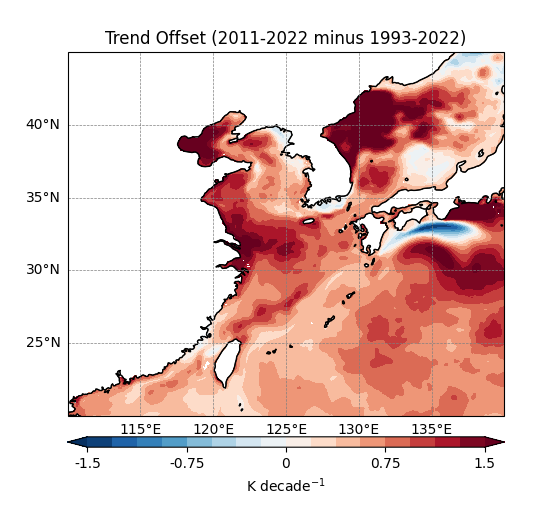
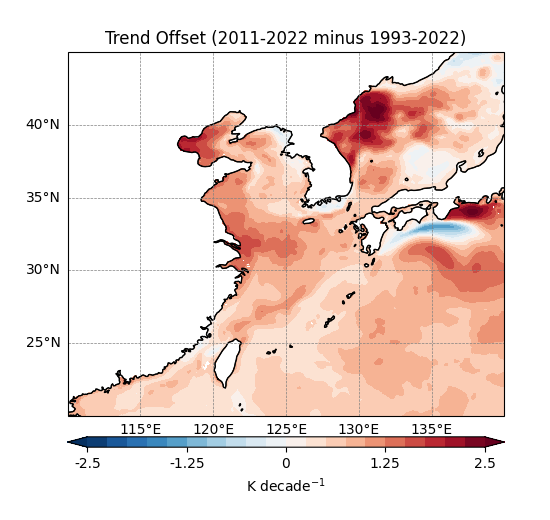
main에 커밋

diff --git a/src/analysis/source_panel.py b/src/analysis/source_panel.py
@@ -273,7 +273,8 @@ def _compute_rhs_anomalies(
     RHSmm = np.nanmean(RHSm, axis=1)
     RHSa = RHSm - RHSmm[:, None, :, :]
     rhs_anom = np.nanmean(RHSa[:, ti : tl + 1, :, :], axis=1)
-    rhs_anom *= SECONDS_PER_DAY * DAYS_PER_YEAR
+    # Convert K s^-1 to K decade^-1
+    rhs_anom *= SECONDS_PER_DAY * DAYS_PER_YEAR * 10.0
     return rhs_anom
 
 
@@ -287,6 +288,7 @@ def compute_budget_fields(base_dir: Path) -> BudgetFields:
     T = read_fbinary(data_dir / "T_ML.data", shape)
     qnet = read_fbinary(data_dir / "qnet.data", shape)
     adv = read_fbinary(data_dir / "adv.data", shape)
+    adv = smth9(adv, 0.50, 0.25, wrap=True)
     adv = smth9(adv, 0.50, 0.25, wrap=True)
     adv = smth9(adv, 0.50, 0.25, wrap=True)
 
@@ -391,7 +393,7 @@ def plot_trend_map(fields: BudgetFields, output: Path) -> None:
 
     lon2d, lat2d = np.meshgrid(fields.lon, fields.lat)
     cmap = plt.get_cmap("RdBu_r")
-    levels_trend = np.linspace(-1.5, 1.5, 17)
+    levels_trend = np.linspace(-2.5, 2.5, 21)
 
     cs = ax.contourf(
         lon2d,
@@ -416,7 +418,11 @@ def plot_trend_map(fields: BudgetFields, output: Path) -> None:
     plt.close(fig)
 
 
-def plot_rhs_panels(fields: BudgetFields, output: Path) -> None:
+def plot_rhs_panels(
+    fields: BudgetFields,
+    rhs_anomalies: np.ndarray,
+    output: Path,
+) -> None:
     output.parent.mkdir(parents=True, exist_ok=True)
 
     subplot_kwargs = {"projection": ccrs.PlateCarree()} if ccrs is not None else {}
@@ -460,7 +466,8 @@ def plot_rhs_panels(fields: BudgetFields, output: Path) -> None:
 
     lon2d, lat2d = np.meshgrid(fields.lon, fields.lat)
     cmap = plt.get_cmap("RdBu_r")
-    levels_rhs = np.linspace(-10.0, 10.0, 17)
+    # RHS anomalies are in K decade^-1; empirical scale ~O(100) after conversion
+    levels_rhs = np.linspace(-100.0, 100.0, 17)
 
     titles = [
         "Surface Heat Flux (Qnet)",
@@ -474,12 +481,16 @@ def plot_rhs_panels(fields: BudgetFields, output: Path) -> None:
     axes = axes.ravel()
     mappables: list[plt.cm.ScalarMappable] = []
 
-    for idx, (ax, arr, title) in enumerate(zip(axes, fields.rhs_anomalies, titles)):
+    for idx, (ax, arr, title) in enumerate(zip(axes, rhs_anomalies, titles)):
         row, col = divmod(idx, 2)
+        data = np.array(arr, copy=True)
+        if idx == 1:
+            mask = np.isclose(data, 0.0, atol=1e-8)
+            data = np.where(mask, np.nan, data)
         cs = ax.contourf(
             lon2d,
             lat2d,
-            arr,
+            data,
             levels=levels_rhs,
             cmap=cmap,
             extend="both",
@@ -497,7 +508,7 @@ def plot_rhs_panels(fields: BudgetFields, output: Path) -> None:
     cax = fig.add_axes([x0, y0, x1 - x0, 0.02])
     rhs_ticks = _select_tick_values(levels_rhs, max_labels=9)
     cbar = fig.colorbar(mappables[0], cax=cax, orientation="horizontal", ticks=rhs_ticks)
-    cbar.set_label(r"W m$^{-2}$")
+    cbar.set_label(r"K decade$^{-1}$")
     _set_colorbar_ticks(cbar, rhs_ticks)
 
     fig.savefig(output)
@@ -523,7 +534,13 @@ def parse_args(argv: Iterable[str] | None = None) -> argparse.Namespace:
         "--rhs-output",
         type=Path,
         default=None,
-        help="Destination for the RHS panel figure. Defaults to Figure/budget3_rhs_python.png.",
+        help="Destination for the RHS panel figure using native diffv. Defaults to Figure/budget3_rhs_native_python.png.",
+    )
+    parser.add_argument(
+        "--rhs-residual-output",
+        type=Path,
+        default=None,
+        help="Destination for the RHS panel figure using residual diffv. Defaults to Figure/budget3_rhs_residual_python.png.",
     )
     return parser.parse_args(argv)
 
@@ -532,11 +549,15 @@ def main(argv: Iterable[str] | None = None) -> None:
     args = parse_args(argv)
     figure_dir = args.base_dir / "Figure"
     trend_output = args.trend_output or (figure_dir / "budget3_trend_python.png")
-    rhs_output = args.rhs_output or (figure_dir / "budget3_rhs_python.png")
+    rhs_output = args.rhs_output or (figure_dir / "budget3_rhs_native_python.png")
+    rhs_residual_output = args.rhs_residual_output or (
+        figure_dir / "budget3_rhs_residual_python.png"
+    )
 
     fields = compute_budget_fields(args.base_dir)
     plot_trend_map(fields, trend_output)
-    plot_rhs_panels(fields, rhs_output)
+    plot_rhs_panels(fields, fields.rhs_anomalies_native, rhs_output)
+    plot_rhs_panels(fields, fields.rhs_anomalies_residual, rhs_residual_output)
 
 
 if __name__ == "__main__":

diff --git a/docs/guidelines/05_storage_output_guidelines.md b/docs/guidelines/05_storage_output_guidelines.md
@@ -5,10 +5,11 @@
 - 소스 코드 작성, 데이터 전처리, 그림/표 산출 등 저장 행위 전반을 포함한다.
 
 ## B. 외장 저장소 작업 규칙
-1. **소스 코드와 산출물 동시 저장**: 외장하드 경로에서 작업하는 동안 생성·수정한 파이썬 스크립트, 노트북, 모듈을 포함한 모든 소스 코드는 외장하드 내 적절한 디렉터리에 저장한다. 계산 전용 모듈은 `Decadal/source/` 등 전용 소스 디렉터리에, 그림 생성 스크립트는 결과물이 위치한 `Figure/` 하위(`Figure/scripts/` 등)에 함께 보관한다.
+1. **소스 코드와 산출물 동시 저장**: 외장하드 경로에서 작업하는 동안 생성·수정한 파이썬 스크립트, 노트북, 모듈을 포함한 모든 소스 코드는 외장하드 내 적절한 디렉터리에 저장한다. **그림을 생성하는 스크립트는 해당 그림이 저장되는 디렉터리(예: `Figure/`)와 동일 경로(또는 그 하위 `scripts/`)에 반드시 함께 둔다.** 계산 전용 모듈은 `Decadal/source/` 등 전용 소스 디렉터리에 보관한다.
 2. **결과물 현지 보관**: 분석 결과(그림, 테이블, 로그 등)도 동일 외장 경로에 보관하고, 다른 위치로 임시 복사했을 경우 즉시 외장 경로로 동기화한다. 별도 지시가 없는 한 그림 산출물은 PNG로 저장하고, 필요 시 추가 포맷(PDF 등)을 병행한다.
 3. **경로 명시**: 스크립트 내 기본 출력 경로나 `--output` 옵션 기본값을 설정할 때 외장 경로가 기본이 되도록 한다.
-4. **동기화 검증**: 외장 경로 외 다른 위치에 중간 산출물이 생성되었는지 정기적으로 확인하고, 발견 즉시 외장 경로로 이동·정리한다.
+4. **로컬 라이브러리 활용 방식**: 루트 리포(`~/Desktop/GPT/Mixed-Layer-Heat-budget`)에 있는 소스 파일은 참고용으로만 유지하고, 실제 실행·출력은 가능하면 외장하드 경로에서 수행한다. 로컬 복사본을 수정할 경우 외장 버전도 동일하게 반영했는지 확인한다.
+5. **동기화 검증**: 외장 경로 외 다른 위치에 중간 산출물이 생성되었는지 정기적으로 확인하고, 발견 즉시 외장 경로로 이동·정리한다.
 
 ## C. 소스 코드 라이브러리 구조화
 1. **루트 내 라이브러리 배치**: 새로 작성하는 모든 소스 코드는 루트(`~/Desktop/GPT/Mixed-Layer-Heat-budget`)의 `src/` 하위에 위치한 라이브러리 구조로 편입한다. 외장하드 작업 시에도 계산 로직은 `Decadal/source/` 등 전용 디렉터리에, 그림 생성 스크립트는 대응하는 `Figure/` 하위에 두어 두 위치가 역할별로 분리되도록 한다.

diff --git a/docs/guidelines/01_llm_guidelines.md b/docs/guidelines/01_llm_guidelines.md
@@ -17,7 +17,10 @@
 ## C. 진행 중 운영 규칙
 - 각 명령·실험의 목적을 먼저 말하고 실행한다. 결과 요약 시 핵심 수치와 경로만 전달한다.
 - 사용자에게 전달하는 모든 최종 응답은 기본적으로 한국어로 작성한다.
-- 진행 상황을 기록하라는 요청을 받으면 `python3 scripts/journal_end.py --notes "<요약>"`로 현재 진행을 일지에 반영한다.
+- 진행 상황을 기록하라는 요청(예: "저장해")을 받으면 아래 순서를 따른다.
+  1. 이번 대화에서 새로 드러난 비효율을 `scripts/pattern_tracker.py log`로 기록하고,
+  2. 관련 이슈가 있다면 즉시 오답노트(`scripts/log_error_note.py`)를 갱신하며,
+  3. 마지막으로 `python3 scripts/journal_end.py --notes "<요약>"`를 실행해 일지에 반영하며, 추가로 해당 노트에 이번 작업에서 다룬 주요 디렉터리·파일 경로를 명시한다.
 - 오답노트 참고·갱신 이력은 일지 `Issues & References` 섹션에 기록한다.
 - 사용자가 "대화 내용을 모두 저장해" 등 전체 기록 저장을 지시하면, 현재 채팅 세션을 즉시 `docs/discussions/` 이하에 있는 포맷(예: `transcripts/2025-09-23_session_raw.txt`) 그대로 정리해 추가한다.
 - 오답노트를 새로 작성할 때는 관련 대화 기록 경로(`docs/discussions/...`)를 `--related` 항목에 포함해 추적 가능하도록 한다.

diff --git a/docs/journal/2025/2025-09-23.md b/docs/journal/2025/2025-09-23.md
@@ -21,6 +21,8 @@
   - LLM/시각화 지침 개정 및 source_panel.py PNG 출력 구조 개선
   - journal_end.py에 --notes 옵션 추가 및 LLM 지침 업데이트 내용 저장
   - RHS 패널 레이아웃 자동 조정, 관련 지침·오답노트·패턴 기록 업데이트 완료
+  - 작업 경로 기록: src/analysis/source_panel.py, /Volumes/HJPARK4/Decadal/Figure/scripts/source_panel.py, docs/guidelines/{01_llm_guidelines.md,05_storage_output_guidelines.md}
+  - RHS residual 패널을 기본으로 사용, advection 추가 스무딩 적용 및 트렌드 범위 ±2.5 K/decade로 확장
 - **End:**
   - `python3 scripts/journal_end.py` 실행해 진행 상황 기록
   - 추가 과제는 모두 `Next Steps` 섹션에 정리
